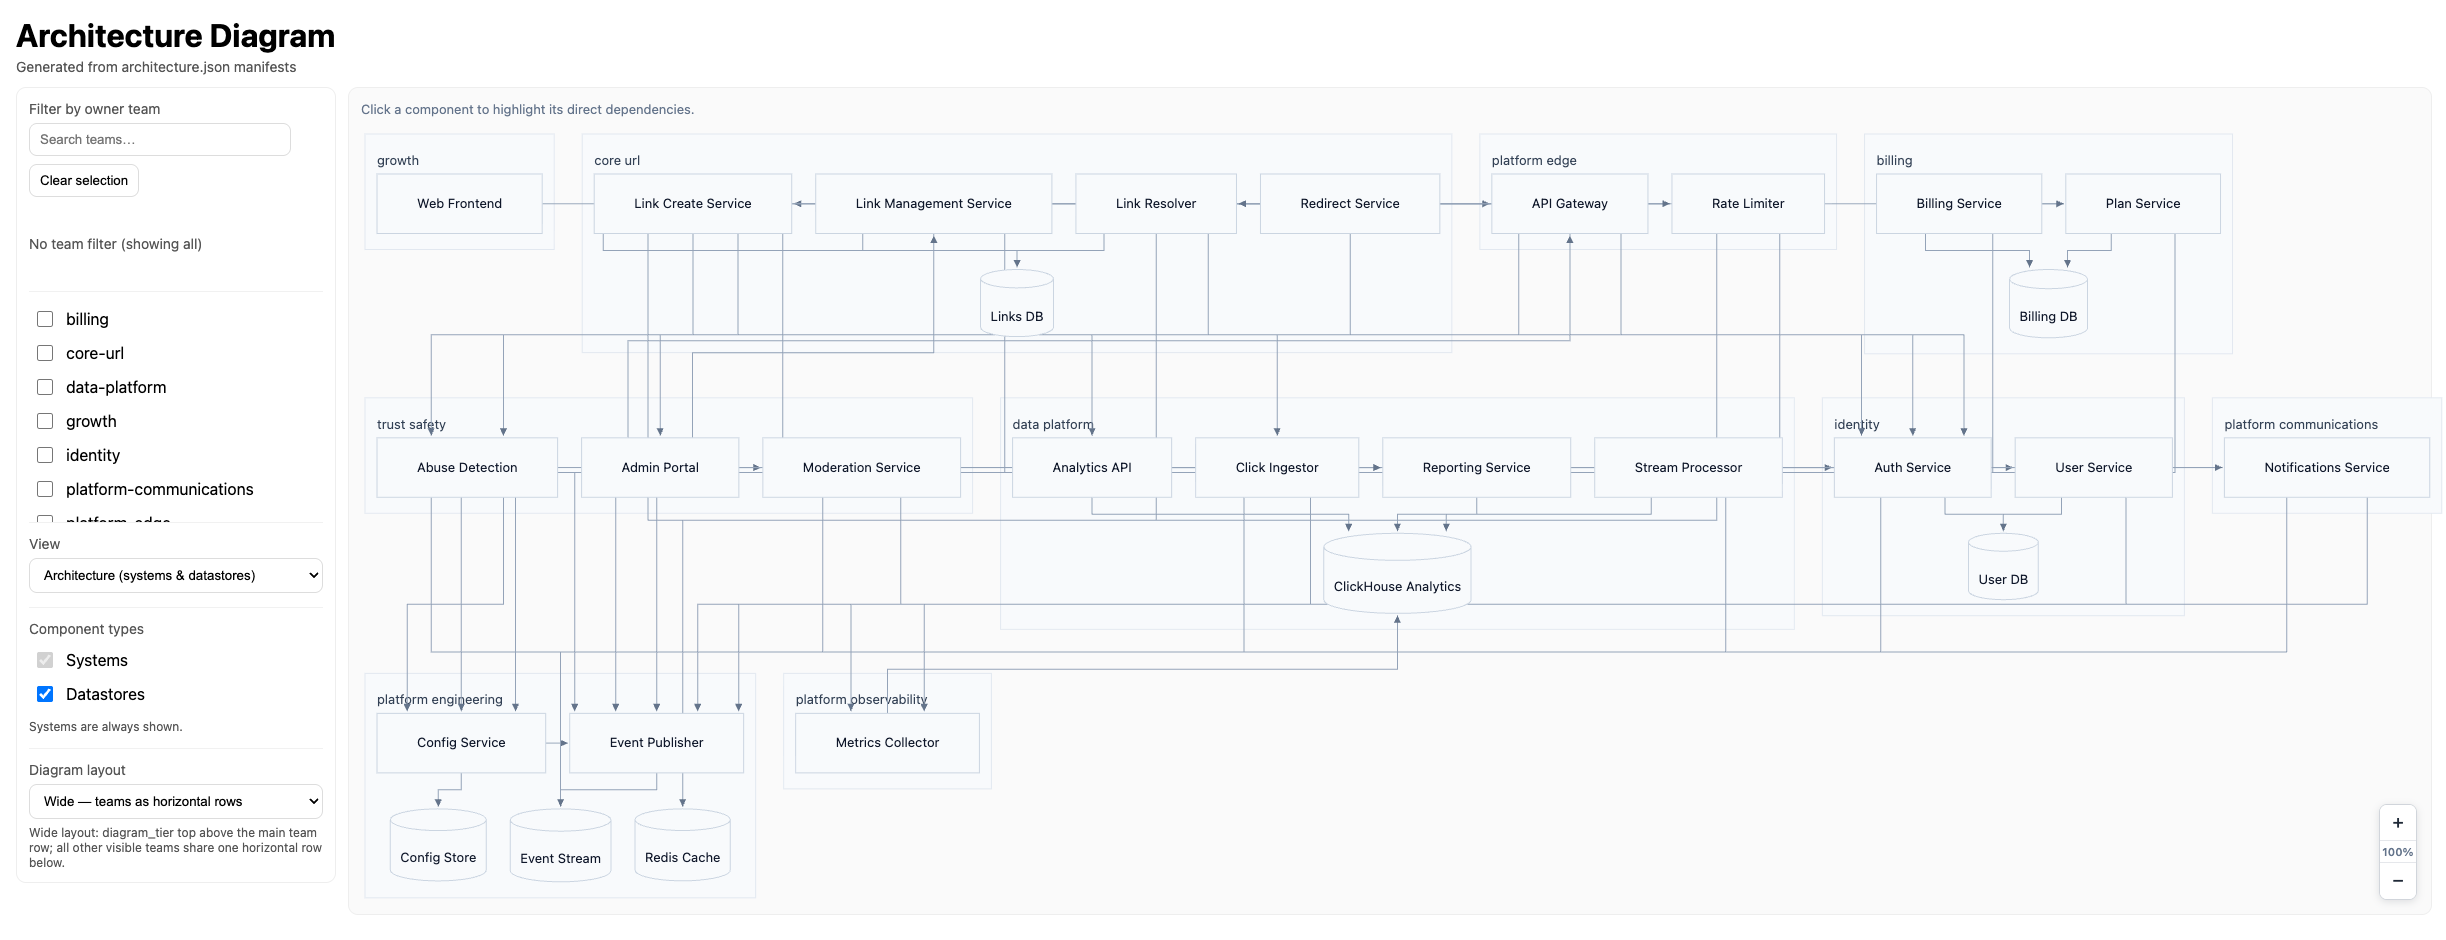
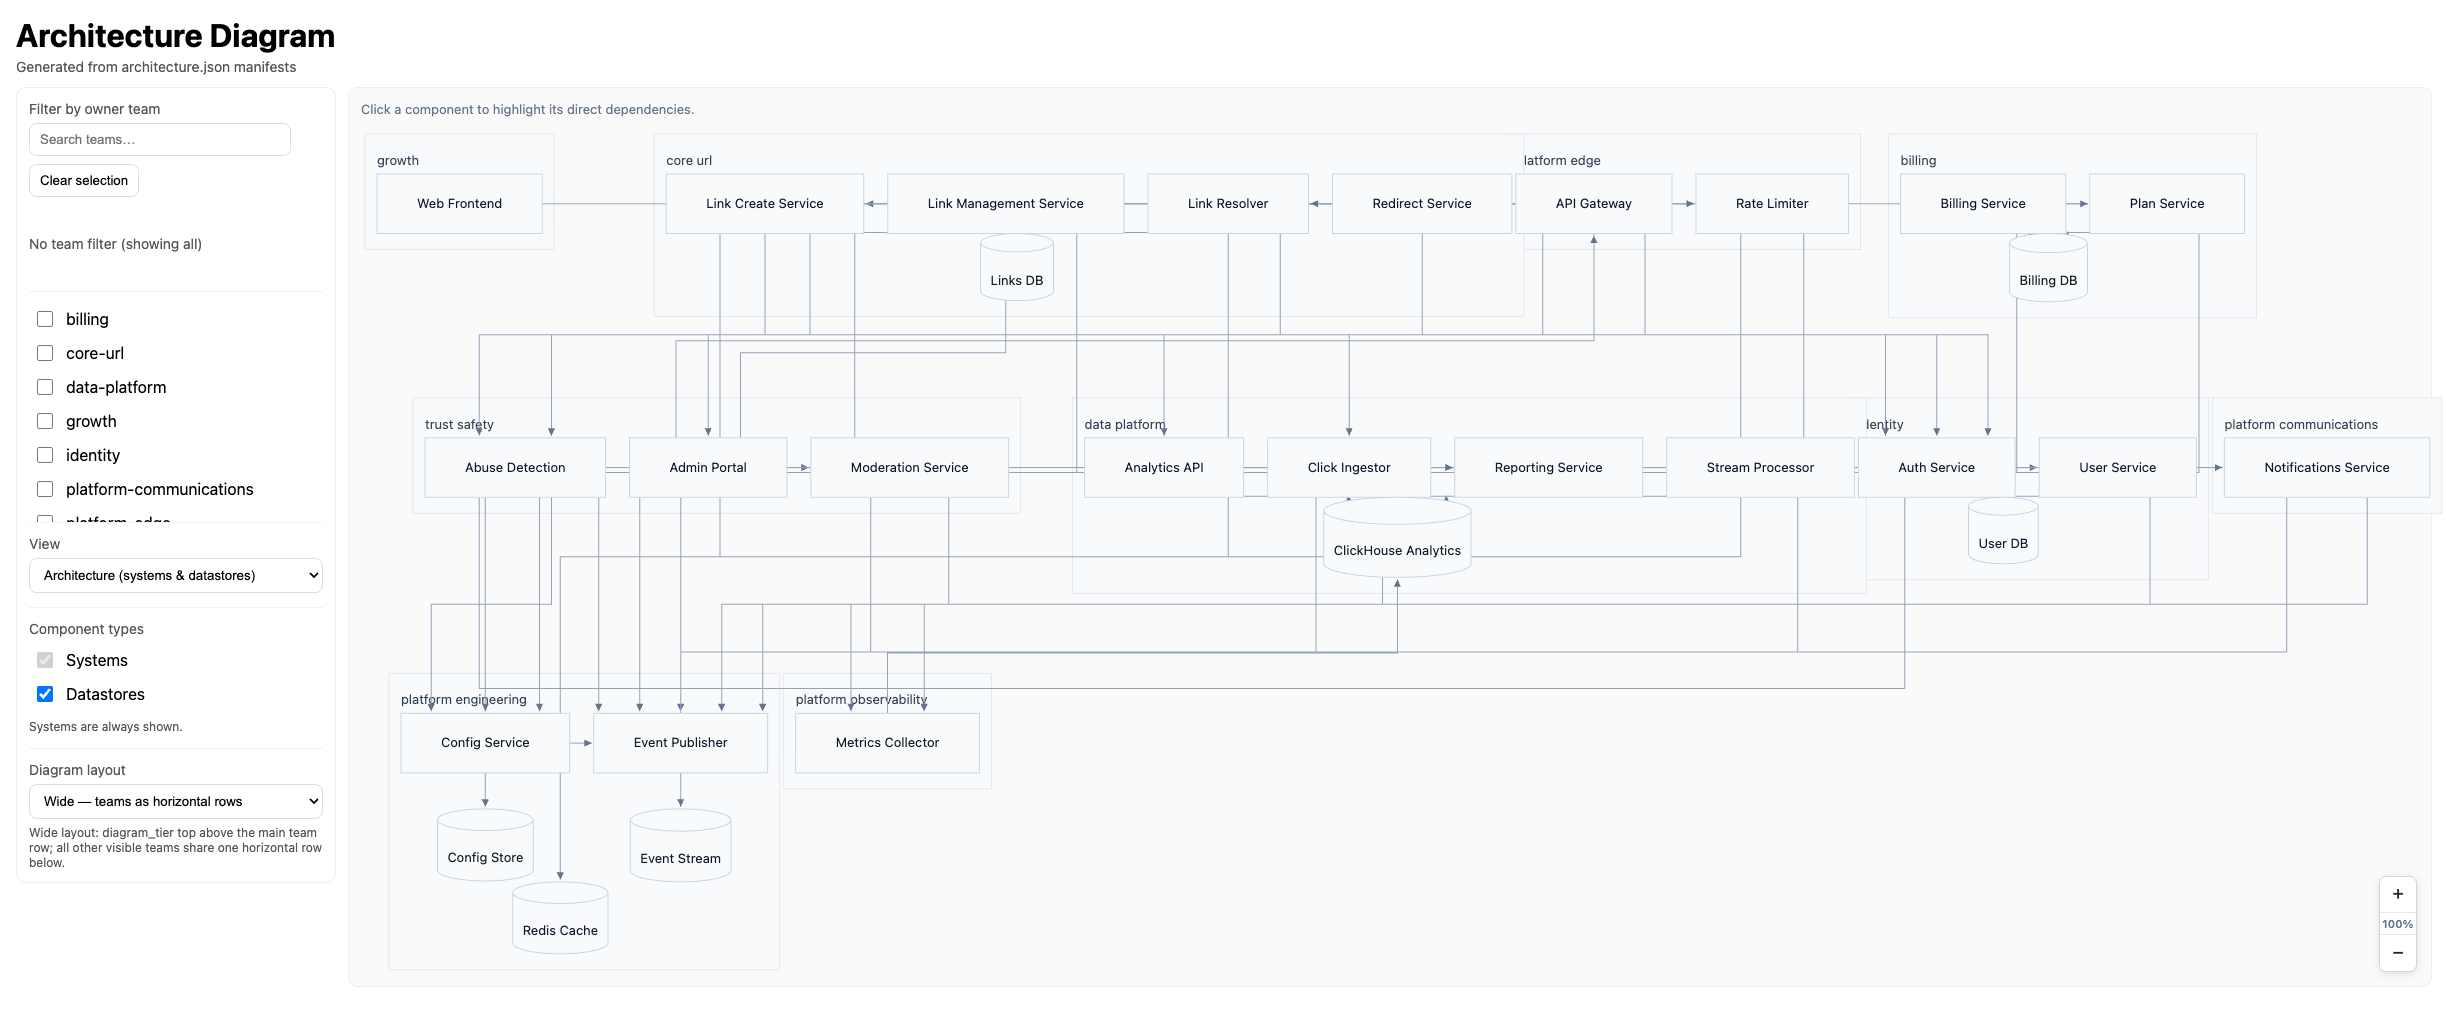
groups datastores under owning services

diff --git a/src/web/alignTeamRowLayout.ts b/src/web/alignTeamRowLayout.ts
@@ -539,13 +539,101 @@ interface TeamLayerLayout {
     rowHeight: number
 }
 
+interface TeamColumnLayout {
+    system: WebNode
+    datastores: WebNode[]
+    width: number
+    height: number
+    systemHeight: number
+    datastoreRowWidth: number
+    datastoreRowHeight: number
+}
+
 interface TeamLayoutPlan {
     width: number
     height: number
     layers: TeamLayerLayout[]
+    columns: TeamColumnLayout[]
+    sharedDatastores: TeamLayerLayout | null
+    columnRowHeight: number
 }
 
-function planTeamLayout(svg: SVGSVGElement, teamNodes: WebNode[]): TeamLayoutPlan {
+function nodeSize(svg: SVGSVGElement, node: WebNode): { width: number; height: number } {
+    const group = findNodeGroup(svg, node.uid)
+
+    if (!group) {
+        return { width: 0, height: 0 }
+    }
+
+    const size = nodeLocalBox(group)
+
+    return { width: size.width, height: size.height }
+}
+
+function rowMetrics(svg: SVGSVGElement, nodes: WebNode[]): { rowWidth: number; rowHeight: number } {
+    let rowWidth = 0
+    let rowHeight = 0
+
+    for (const node of nodes) {
+        const size = nodeSize(svg, node)
+        rowWidth += size.width + NODE_H_GAP
+        rowHeight = Math.max(rowHeight, size.height)
+    }
+
+    return {
+        rowWidth: Math.max(0, rowWidth - NODE_H_GAP),
+        rowHeight,
+    }
+}
+
+function columnsWidth(columns: TeamColumnLayout[]): number {
+    return Math.max(0, columns.reduce((sum, column) => sum + column.width + NODE_H_GAP, 0) - NODE_H_GAP)
+}
+
+function serviceDatastoresByUid(teamNodes: WebNode[], includedEdges: WebEdge[]): Map<string, WebNode[]> {
+    const nodesByUid = new Map(teamNodes.map((node) => [node.uid, node]))
+    const ownersByDatastore = new Map<string, Set<string>>()
+
+    for (const edge of includedEdges) {
+        const from = nodesByUid.get(edge.from)
+        const to = nodesByUid.get(edge.to)
+
+        if (!from || !to || from.kind !== 'system' || to.kind !== 'datastore') {
+            continue
+        }
+
+        const owners = ownersByDatastore.get(to.uid) ?? new Set<string>()
+        owners.add(from.uid)
+        ownersByDatastore.set(to.uid, owners)
+    }
+
+    const byService = new Map<string, WebNode[]>()
+
+    for (const [datastoreUid, owners] of ownersByDatastore) {
+        if (owners.size !== 1) {
+            continue
+        }
+
+        const datastore = nodesByUid.get(datastoreUid)
+        const serviceUid = [...owners][0]
+
+        if (!datastore) {
+            continue
+        }
+
+        const list = byService.get(serviceUid) ?? []
+        list.push(datastore)
+        byService.set(serviceUid, list)
+    }
+
+    for (const list of byService.values()) {
+        list.sort((a, b) => a.uid.localeCompare(b.uid))
+    }
+
+    return byService
+}
+
+function planTeamLayout(svg: SVGSVGElement, teamNodes: WebNode[], includedEdges: WebEdge[]): TeamLayoutPlan {
     const byKind = new Map<Kind, WebNode[]>()
 
     for (const node of teamNodes) {
@@ -558,35 +646,75 @@ function planTeamLayout(svg: SVGSVGElement, teamNodes: WebNode[]): TeamLayoutPla
         list.sort((a, b) => a.uid.localeCompare(b.uid))
     }
 
+    const systemNodes = byKind.get('system') ?? []
+    const datastoreNodes = byKind.get('datastore') ?? []
+    const datastoresByService = serviceDatastoresByUid(teamNodes, includedEdges)
+    const assignedDatastoreUids = new Set([...datastoresByService.values()].flat().map((node) => node.uid))
+    const sharedDatastores = datastoreNodes.filter((node) => !assignedDatastoreUids.has(node.uid))
+    const columns: TeamColumnLayout[] = []
+    let columnRowWidth = 0
+    let columnRowHeight = 0
+
+    for (const system of systemNodes) {
+        const systemSize = nodeSize(svg, system)
+        const datastores = datastoresByService.get(system.uid) ?? []
+        const datastoreMetrics = rowMetrics(svg, datastores)
+        const hasDatastores = datastores.length > 0
+        const height = systemSize.height + (hasDatastores ? KIND_LAYER_GAP + datastoreMetrics.rowHeight : 0)
+        const width = Math.max(systemSize.width, datastoreMetrics.rowWidth)
+
+        columns.push({
+            system,
+            datastores,
+            width,
+            height,
+            systemHeight: systemSize.height,
+            datastoreRowWidth: datastoreMetrics.rowWidth,
+            datastoreRowHeight: datastoreMetrics.rowHeight,
+        })
+        columnRowWidth += width + NODE_H_GAP
+        columnRowHeight = Math.max(columnRowHeight, height)
+    }
+
+    columnRowWidth = Math.max(0, columnRowWidth - NODE_H_GAP)
+
     const presentLayers = KIND_LAYERS.filter((kind) => (byKind.get(kind)?.length ?? 0) > 0)
     const layers: TeamLayerLayout[] = []
     let width = TEAM_PAD_X * 2
     let height = TEAM_PAD_Y * 2 + TEAM_LABEL_HEIGHT
 
     for (const kind of presentLayers) {
-        const nodes = byKind.get(kind)!
-        let rowWidth = 0
-        let rowHeight = 0
-
-        for (const node of nodes) {
-            const group = findNodeGroup(svg, node.uid)
-
-            if (!group) {
-                continue
-            }
-
-            const size = nodeLocalBox(group)
-            rowWidth += size.width + NODE_H_GAP
-            rowHeight = Math.max(rowHeight, size.height)
+        if (systemNodes.length > 0 && (kind === 'system' || kind === 'datastore')) {
+            continue
         }
 
-        rowWidth = Math.max(0, rowWidth - NODE_H_GAP)
+        const nodes = byKind.get(kind)!
+        const { rowWidth, rowHeight } = rowMetrics(svg, nodes)
         width = Math.max(width, rowWidth + TEAM_PAD_X * 2)
         layers.push({ kind, nodes, rowWidth, rowHeight })
         height += rowHeight + (layers.length > 1 ? KIND_LAYER_GAP : 0)
     }
 
-    return { width, height, layers }
+    const sharedDatastoreLayer =
+        sharedDatastores.length > 0
+            ? {
+                  kind: 'datastore' as const,
+                  nodes: sharedDatastores,
+                  ...rowMetrics(svg, sharedDatastores),
+              }
+            : null
+
+    if (columns.length > 0) {
+        width = Math.max(width, columnRowWidth + TEAM_PAD_X * 2)
+        height += columnRowHeight
+    }
+
+    if (sharedDatastoreLayer) {
+        width = Math.max(width, sharedDatastoreLayer.rowWidth + TEAM_PAD_X * 2)
+        height += (columns.length > 0 || layers.length > 0 ? KIND_LAYER_GAP : 0) + sharedDatastoreLayer.rowHeight
+    }
+
+    return { width, height, layers, columns, sharedDatastores: sharedDatastoreLayer, columnRowHeight }
 }
 
 function placeTeam(
@@ -600,18 +728,39 @@ function placeTeam(
     resetTeamClusterTransforms(svg, teamClusterId(team))
 
     let rowY = originY + TEAM_PAD_Y + TEAM_LABEL_HEIGHT
-    let serviceRowWidth = 0
+
+    if (plan.columns.length > 0) {
+        let columnX = originX + TEAM_PAD_X + Math.max(0, (plan.width - TEAM_PAD_X * 2 - columnsWidth(plan.columns)) / 2)
+
+        for (const column of plan.columns) {
+            const systemGroup = findNodeGroup(svg, column.system.uid)
+
+            if (systemGroup) {
+                const systemSize = nodeLocalBox(systemGroup)
+                setNodeAbsolutePosition(systemGroup, columnX + (column.width - systemSize.width) / 2, rowY)
+            }
+
+            let datastoreX = columnX + Math.max(0, (column.width - column.datastoreRowWidth) / 2)
+
+            for (const datastore of column.datastores) {
+                const datastoreGroup = findNodeGroup(svg, datastore.uid)
+
+                if (!datastoreGroup) {
+                    continue
+                }
+
+                setNodeAbsolutePosition(datastoreGroup, datastoreX, rowY + column.systemHeight + KIND_LAYER_GAP)
+                datastoreX += nodeLocalBox(datastoreGroup).width + NODE_H_GAP
+            }
+
+            columnX += column.width + NODE_H_GAP
+        }
+
+        rowY += plan.columnRowHeight
+    }
 
     for (const layer of plan.layers) {
-        let rowX = originX + TEAM_PAD_X
-
-        if (layer.kind === 'datastore' && plan.layers.some((entry) => entry.kind === 'system')) {
-            rowX = originX + TEAM_PAD_X + Math.max(0, (serviceRowWidth - layer.rowWidth) / 2)
-        }
-
-        if (layer.kind === 'system') {
-            serviceRowWidth = layer.rowWidth
-        }
+        let rowX = originX + TEAM_PAD_X + Math.max(0, (plan.width - TEAM_PAD_X * 2 - layer.rowWidth) / 2)
 
         for (const node of layer.nodes) {
             const group = findNodeGroup(svg, node.uid)
@@ -625,6 +774,22 @@ function placeTeam(
         }
 
         rowY += layer.rowHeight + KIND_LAYER_GAP
+    }
+
+    if (plan.sharedDatastores) {
+        let rowX =
+            originX + TEAM_PAD_X + Math.max(0, (plan.width - TEAM_PAD_X * 2 - plan.sharedDatastores.rowWidth) / 2)
+
+        for (const node of plan.sharedDatastores.nodes) {
+            const group = findNodeGroup(svg, node.uid)
+
+            if (!group) {
+                continue
+            }
+
+            setNodeAbsolutePosition(group, rowX, rowY)
+            rowX += nodeLocalBox(group).width + NODE_H_GAP
+        }
     }
 
     const cluster = findTeamCluster(svg, teamClusterId(team))
@@ -684,14 +849,19 @@ function dependencyTeamOrder(baseOrder: string[], includedNodes: WebNode[], incl
     })
 }
 
-function placeTeamRows(svg: SVGSVGElement, teams: [string, WebNode[]][], startY: number): number {
+function placeTeamRows(
+    svg: SVGSVGElement,
+    teams: [string, WebNode[]][],
+    startY: number,
+    includedEdges: WebEdge[],
+): number {
     let x = DIAGRAM_ORIGIN_X
     let rowY = startY
     let rowHeight = 0
     let bottom = startY
 
     for (const [team, teamNodes] of teams) {
-        const plan = planTeamLayout(svg, teamNodes)
+        const plan = planTeamLayout(svg, teamNodes, includedEdges)
 
         if (x > DIAGRAM_ORIGIN_X && x + plan.width > DIAGRAM_ORIGIN_X + MAX_TEAM_ROW_WIDTH) {
             x = DIAGRAM_ORIGIN_X
@@ -732,11 +902,11 @@ function layoutTeamsFromScratch(svg: SVGSVGElement, includedNodes: WebNode[], in
     let topRowBottom = DIAGRAM_ORIGIN_Y
 
     if (topTeams.length > 0) {
-        topRowBottom = placeTeamRows(svg, topTeams, DIAGRAM_ORIGIN_Y)
+        topRowBottom = placeTeamRows(svg, topTeams, DIAGRAM_ORIGIN_Y, includedEdges)
         mainRowY = topRowBottom + ROW_GAP_BELOW_TOP
     }
 
-    placeTeamRows(svg, rowTeams, mainRowY)
+    placeTeamRows(svg, rowTeams, mainRowY, includedEdges)
 }
 
 function outerTeamClusterRect(cluster: SVGGElement): { x: number; y: number; width: number; height: number } | null {